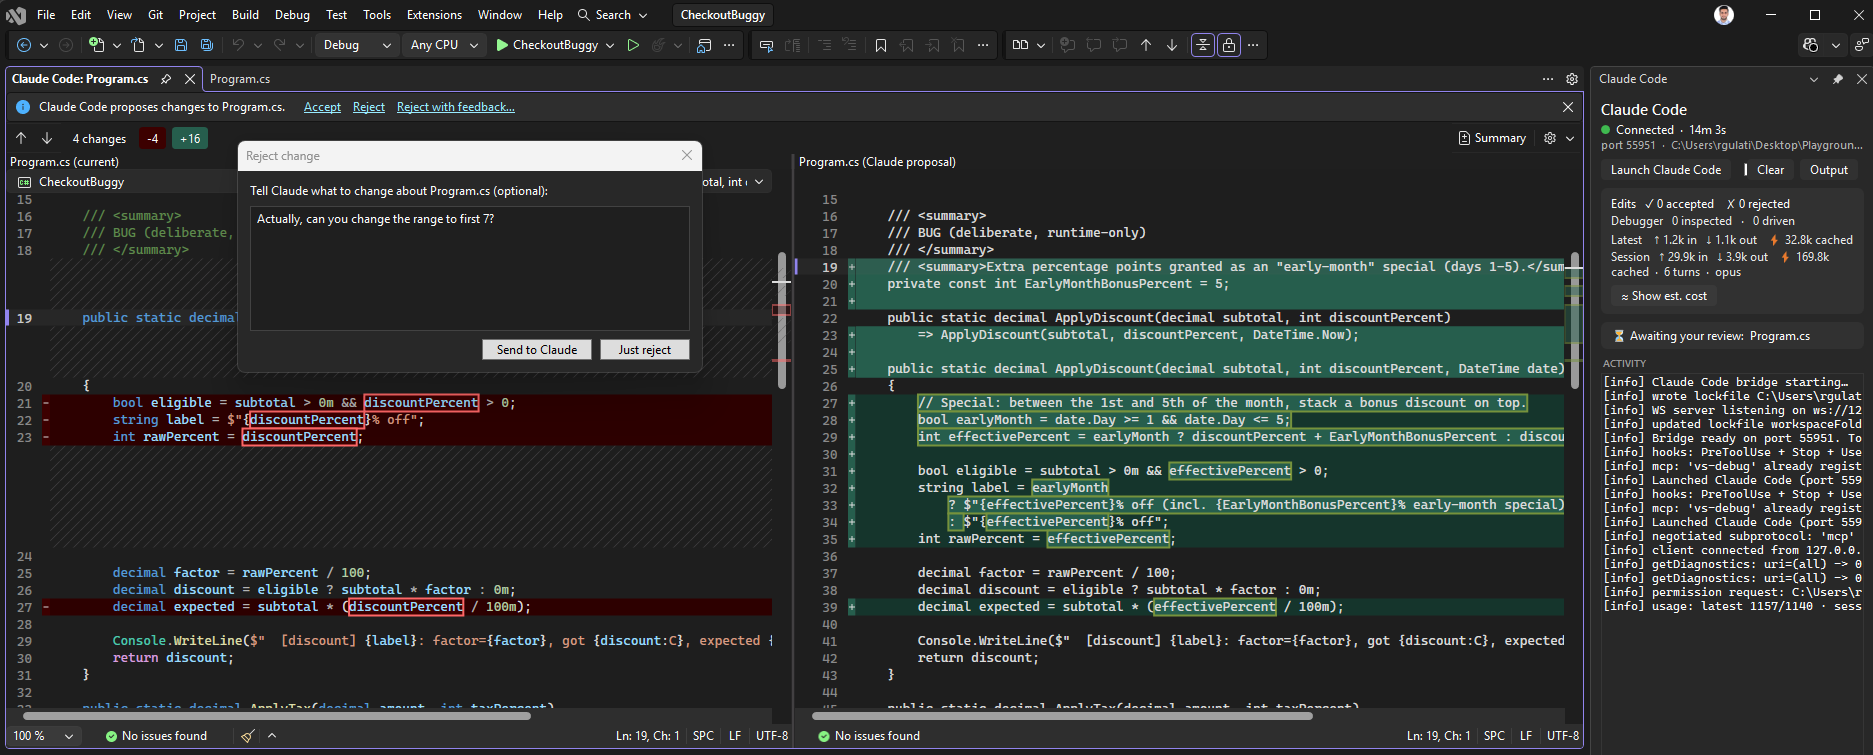
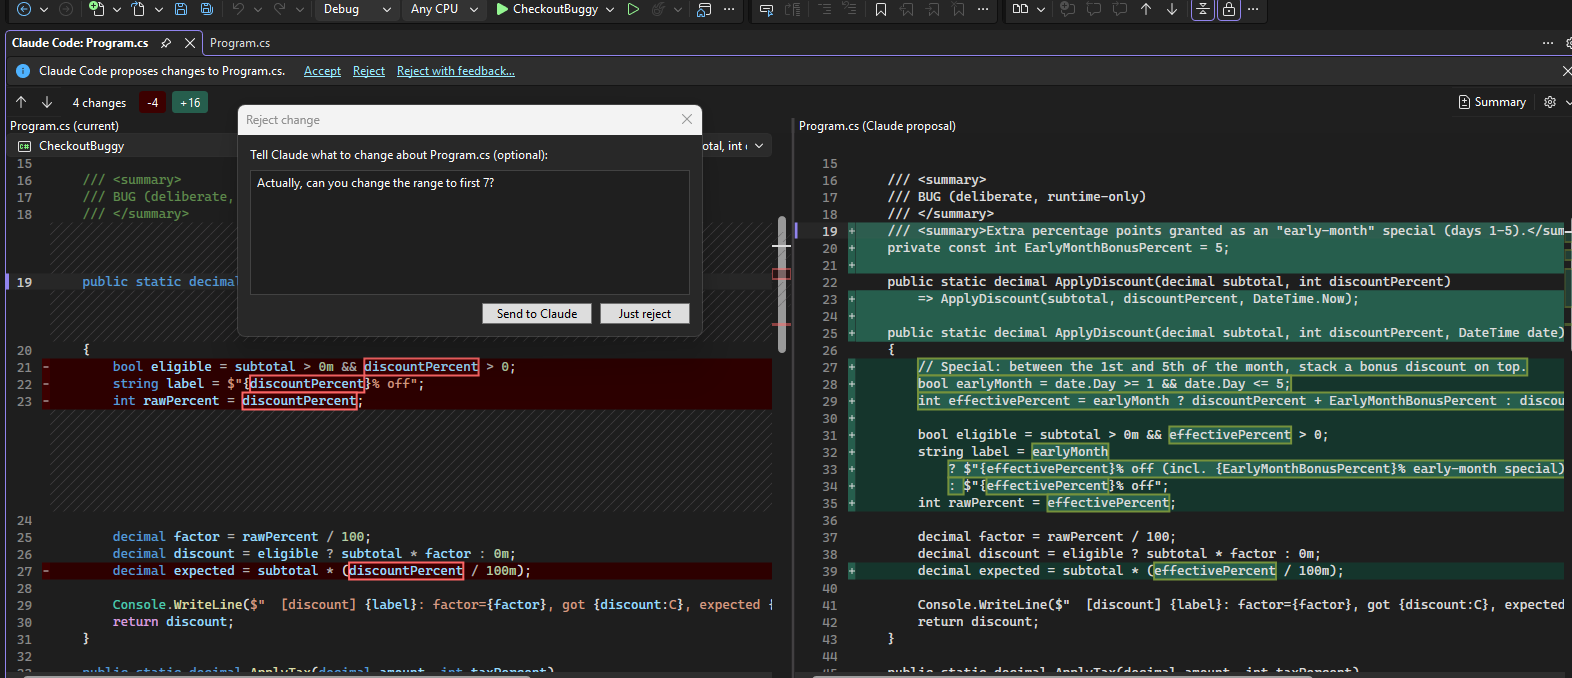
docs: sharper hero, cropped diff shot, tiny-text screenshots to tables
- Re-encode debugger-hero.gif at 1200px (it was blurry downscaled to 900px)
- Crop diff-reject.png to drop the redundant side panel and enlarge the diff
- README: replace the combo trace, the data-breakpoint timeline, and the
  semantic-result screenshots (tiny text) with crisp markdown tables

diff --git a/README.md b/README.md
@@ -48,9 +48,17 @@ Claude's edits open in Visual Studio's own diff viewer, and approving there is t
 
 While you are paused at a breakpoint, Claude reads your program's runtime state: the call stack, variable values, and threads. With driving turned on it also steps, sets breakpoints, and runs your code to corner a bug instead of guessing from the source. The clip above is a scoring function that returns the wrong total. Claude stopped inside the loop, stepped through the rounds, and watched a counter that should reset but did not.
 
-It kept a running trace of what it saw at each round, which is how it caught the reset it was missing:
+It kept a running trace of what it saw at each round, which is how it caught the reset it was missing. For the input `{5, 3, 0, 4, 2, 0, 6}`:
 
-![The round-by-round trace Claude built while stepping, showing the combo counter failing to reset on a zero round](docs/images/combo-trace.png)
+| round | points | combo (after) | total | should be |
+|---|---|---|---|---|
+| 0 | 5 | 1 | 5 | 5 |
+| 1 | 3 | 2 | 11 | 11 |
+| 2 | 0 | **2, stays** | 11 | 11 |
+| 3 | 4 | 3 | 23 | **15** |
+| 4 | 2 | 4 | 31 | **19** |
+| 5 | 0 | **4, stays** | 31 | 19 |
+| 6 | 6 | 5 | **61** | **25** |
 
 It has grown well past stepping. Claude can attach to a program that is already running (a hosted web service or a desktop app, not just F5), break at the throw site of an exception instead of the catch that swallows it, and pause a hung process to walk a deadlock back to the exact cycle. Full tool list and worked walkthroughs are in [`docs/DEBUGGER.md`](docs/DEBUGGER.md).
 
@@ -58,7 +66,14 @@ It has grown well past stepping. Claude can attach to a program that is already 
 
 Point Claude at a field and it stops the moment that field is written, or traces every value the field takes, in order. It can watch conditionally (break only when the value goes below zero, for example) and on several fields at once. Visual Studio's own UI can set this, but there is no automation API for it, so the extension arms it through a bundled debug-engine component. That makes it new ground for catching the write that corrupts your state.
 
-![A conditional data breakpoint stopping the instant an order total goes negative, with the change history listed](docs/images/data-brk-conditional.png)
+The plain watch records every write, so the corrupting step is obvious at a glance, and the conditional watch (`< 0`) breaks on exactly that one:
+
+| # | value (cents) | written by | |
+|---|---|---|---|
+| 1-3 | 0 → 30000 → 42000 → 54000 | `AddItems` | three line items |
+| 4 | 54000 → 48600 | `ApplyBulkDiscount` | 10% off |
+| 5 | 48600 → 52488 | `ApplyTax` | +8% tax |
+| 6 | 52488 → **-47512** | `ApplyLoyaltyCredit` | the corruption |
 
 The full data-breakpoint reference is in [`docs/DEBUGGER.md`](docs/DEBUGGER.md#break-when-a-value-changes-data-breakpoints).
 
@@ -74,7 +89,13 @@ Full tool list and the worked flow are in [`docs/TESTING.md`](docs/TESTING.md#ca
 
 Most assistants navigate code by searching text, which misses indirect references and over-counts on comments and same-named symbols. This gives Claude Visual Studio's resolved model of your C# (Roslyn): find-all-references, go-to-definition, find-implementations, and call and type hierarchies, resolved through interfaces, overrides, and overloads. It also reads the decompiled body of a method inside a referenced DLL, which searching your repo cannot do. Point it at a framework or NuGet call and it returns the real decompiled C#, and for core .NET types it fetches the actual runtime source via SourceLink.
 
-![Roslyn find-all-references resolving a call through an interface that a text search would miss](docs/images/semantic-result.png)
+| Tool | What it caught that a text search misses |
+|---|---|
+| find-implementations | `Triangle`'s **explicit** `IShape.Area`, which `.Area()` or `: IShape` never ties back to the interface |
+| type-hierarchy | `Circle` and `Square` reach `IShape` transitively through `ShapeBase`; grep on `: IShape` finds only the two direct implementers |
+| call-hierarchy | the interface-dispatched callers of `IShape.Area`, back to `Main`, that a search on the concrete `Circle.Area` would miss |
+| go-to-definition | the right `Describe` overload at a call site, not all three declarations |
+| decompile | the real body of `Enumerable.Sum` from the library, with `Math.Sqrt` falling back to SourceLink |
 
 It needs no debug session and works whenever a C#/VB solution is open. Details are in [`docs/SEMANTIC.md`](docs/SEMANTIC.md).
 